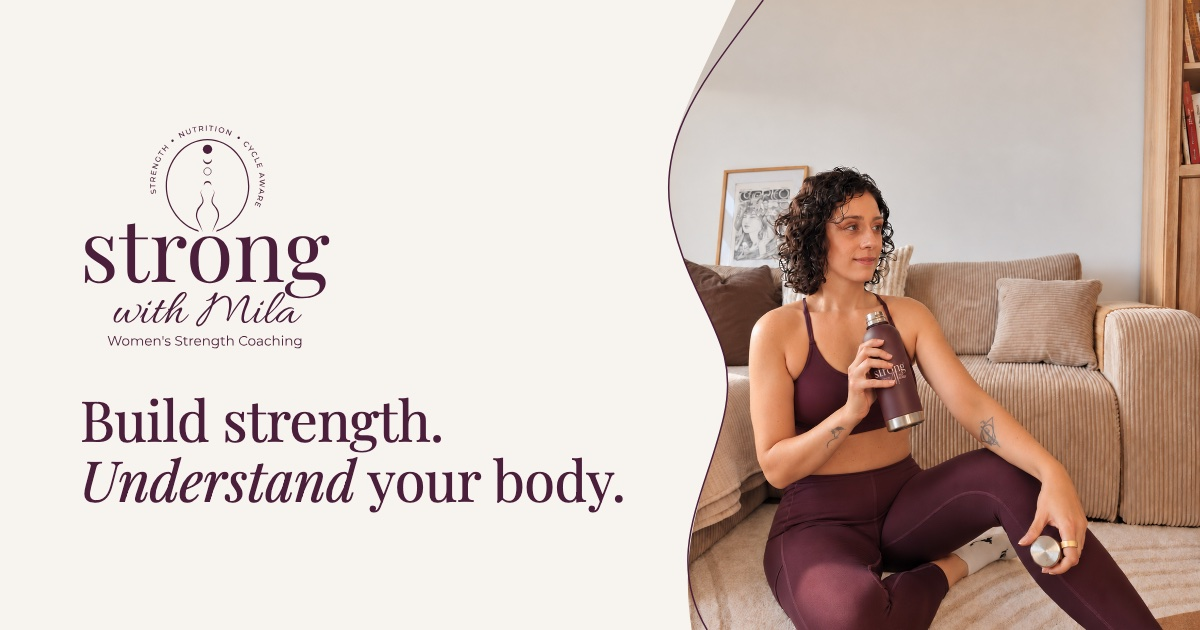
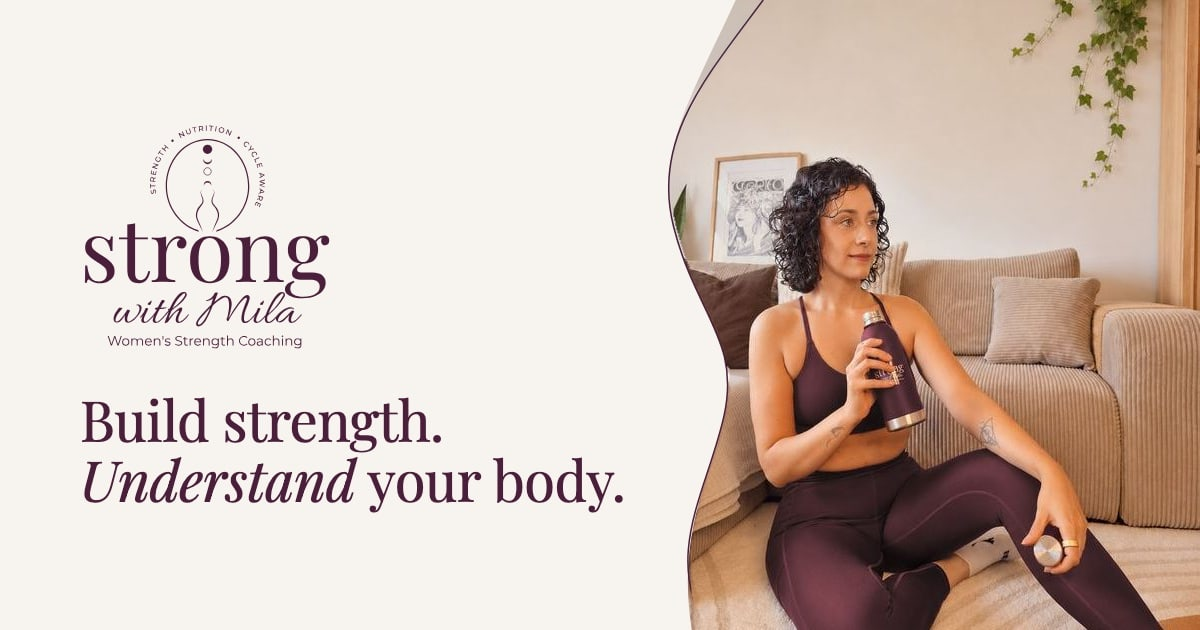
Use the new hero and About photo edits; remove outdated photos
Hero: Woman on Sofa with Cascading Ivy. About: Cozy Portrait with Ivy and
Snake Plant. The link-preview image is rebuilt with the new hero photo.
Older edits (Portrait 2, Portrait 3, Portrait water drinking) are removed.

diff --git a/03Develop/website/src/content/site.ts b/03Develop/website/src/content/site.ts
@@ -9,7 +9,7 @@
  *  decision. Do not publish until each one is confirmed.
  */
 import type { ImageMetadata } from 'astro';
-import aboutPhoto from '../assets/mila-portrait.png';
+import aboutPhoto from '../assets/mila-about.jpg';
 import testimonialIllustration from '../assets/testimonial-illustration.png';
 import testimonialIllustrationGlasses from '../assets/testimonial-illustration-glasses.png';
 import methodTrain from '../assets/method-train.png';
@@ -73,7 +73,7 @@ export const hero = {
   ctaHref: '#package',
   secondaryLabel: 'Meet Mila',
   secondaryHref: '#about',
-  photoAlt: 'Mila sitting on the floor of a bright living room, holding a Strong with Mila water bottle.',
+  photoAlt: 'Mila sitting on the floor of a bright living room beside a sofa and trailing ivy, holding a Strong with Mila water bottle.',
 };
 
 export const resonance = {
@@ -196,7 +196,7 @@ export const fit = {
 /**
  * TODO(Mila): this story is the draft from the website brief. Edit freely;
  * add credentials only once they are real and confirmed.
- * To change the photo, replace src/assets/mila-portrait.png (or import another image) and update `photoAlt`.
+ * To change the photo, replace src/assets/mila-about.jpg (or import another image) and update `photoAlt`.
  */
 export const about = {
   eyebrow: 'A little about me',
@@ -210,7 +210,7 @@ export const about = {
   philosophy: 'I believe the plan should fit the person, not the other way around.',
   note: 'support changed everything',
   photo: aboutPhoto as ImageMetadata | null,
-  photoAlt: 'Mila sitting on a sofa at home, resting her chin on her hand and smiling.',
+  photoAlt: 'Mila at home in a white cardigan, resting her cheek on her hand and smiling softly.',
   credentials: [] as string[],
 };
 

diff --git a/03Develop/website/docs/DECISIONS.md b/03Develop/website/docs/DECISIONS.md
@@ -14,6 +14,7 @@ Status key: **Confirmed** (Mila approved) · **Proposed** (built this way, await
 | 2026-10-29 | About copy uses the PDF draft; photo placeholder | Proposed | No invented credentials. Mila's real portrait has since replaced the placeholder. |
 | 2026-10-29 | Hosting provider | Superseded | Vercel chosen 2026-11-02 (see below). |
 | 2026-11-06 | Figma "Website Design System" page: colour variables with Light and Dark modes, Breakpoint modes (Desktop 1440 / Tablet 834 / Mobile 390) and components matching the website | Confirmed | Dark palette (approved by Mila): page `#1D1418`, surface `#271B21`, raised card `#33242C`, deep plum `#38182C`, text `#EDE4DC`, muted `#C4B5AB`, headings `#EFD9E6`, rose accent `#E7A7B1`, navy `#A9BACF`, forest `#A3C2AC`, border `#5A4650`; clay unchanged. For design use; the website has no dark mode yet. |
+| 2026-11-07 | New photo edits: hero uses "Woman on Sofa with Cascading Ivy" (`mila-hero.jpg`), About uses "Cozy Portrait with Ivy and Snake Plant" (`mila-about.jpg`); link-preview image rebuilt with the new hero photo | Confirmed | Older edits (Portrait 2, Portrait 3, Portrait water drinking) removed; still in git history if needed. |
 | 2026-11-06 | Second testimonial added (M., 28 — Berlin) with the "plum hair and glasses" illustration; quotes shown as a carousel, one card at a time with arrows and dots (swipe on phones) | Confirmed | Wording approved by M. Illustration is decorative, not a likeness of the client. |
 | 2026-11-06 | Removed the unused GitHub Pages publish workflow | Confirmed | Vercel builds and hosts the site from `03Develop/website`. Do not move or rename that folder without also updating Vercel → Settings → Root Directory. |
 | 2026-11-02 | Hosting on Vercel (strong-website.vercel.app), function region Frankfurt | Confirmed | Custom domain still open; set `SITE_URL` once connected. |
